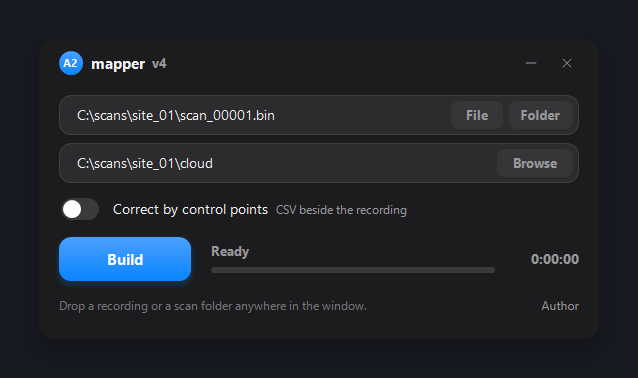
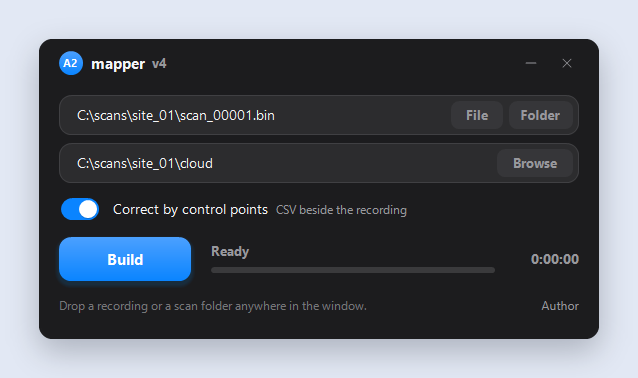
README: same-size screenshots, no vendor comparison, colour for S20 up front
Both window screenshots now share one background and size and the same switch
state. The comparison table is removed. The top row keeps only the downloads;
Telegram/YouTube stay in the Links section. Colour output for SHARE S20 scan
folders is listed under Features.

diff --git a/README.md b/README.md
@@ -5,26 +5,24 @@
 <h1 align="center">A2 mapper</h1>
 
 <p align="center">
-  <b>Point clouds from SLAM scanner recordings. Fast, accurate, free.</b><br>
-  Windows · Android
+  Point clouds from SLAM scanner recordings.<br>
+  Windows · Android · free
 </p>
 
 <p align="center">
-  <a href="v4/A2-mapper-v4.exe"><b>⬇ Windows (.exe)</b></a> ·
-  <a href="v4/A2-mapper-v4.apk"><b>⬇ Android (.apk)</b></a> ·
-  <a href="https://t.me/a2blog">Telegram</a> ·
-  <a href="https://www.youtube.com/@a2-lab">YouTube</a>
+  <a href="v4/A2-mapper-v4.exe"><b>⬇ Download for Windows (.exe)</b></a> &nbsp;·&nbsp;
+  <a href="v4/A2-mapper-v4.apk"><b>⬇ Download for Android (.apk)</b></a>
 </p>
 
 <p align="center">
-  <img src="docs/window-light.png" width="46%" alt="A2 mapper, light theme">
-  <img src="docs/window-dark.png" width="46%" alt="A2 mapper, dark theme">
+  <img src="docs/window-light.png" width="48%" alt="A2 mapper, light theme">
+  <img src="docs/window-dark.png" width="48%" alt="A2 mapper, dark theme">
 </p>
 
 ## What it is
 
-A2 mapper builds a dense, clean **point cloud (`.las`) and a trajectory
-(`.txt`)** from raw SLAM scanner recordings:
+A2 mapper builds a dense **point cloud (`.las`) and a trajectory (`.txt`)** from
+raw SLAM scanner recordings. It reads:
 
 - **ROS1 bag files** (`.bag`, uncompressed) with the topics `/livox/lidar`
   (`livox_ros_driver2/CustomMsg`) and `/livox/imu` (`sensor_msgs/Imu`) —
@@ -32,32 +30,40 @@ A2 mapper builds a dense, clean **point cloud (`.las`) and a trajectory
 - **`.bin` recordings** of **A2 scanners** — see the
   [OpenSLAM](https://github.com/Werdna0107/OpenSLAM) project.
 
-The odometry algorithm was designed and written by the author independently.
-It is not derived from, and does not reuse code of, well-known open-source SLAM
-implementations.
+### Features
 
-Everything runs on your own device. No account, no network, no cloud: your
-recordings never leave your computer or phone.
+- **Colour for SHARE S20 scans.** Choose the whole scan folder (the one with the
+  `all_*.bag` and the `info` folder) and the point cloud comes out **coloured**
+  from the scanner's cameras. Choose a single file and you get a grey cloud.
+- **Control points (RTK).** The trajectory can be corrected by your control
+  points, and the cloud comes out in their coordinates — see
+  [below](#control-points-rtk--trajectory-correction).
+- **Closed loop.** Start and finish are tied together when the recording is made
+  as described [below](#getting-the-best-quality-record-a-closed-loop).
+- **Private.** Everything runs on your own device. No account, no network, no
+  cloud: your recordings never leave your computer or phone.
+
+The odometry algorithm was designed and written by the author independently. It
+is not derived from, and does not reuse code of, well-known open-source SLAM
+implementations.
 
 ## Download
 
 | Platform | File | Notes |
 |---|---|---|
 | Windows 10 / 11, x64 | [`v4/A2-mapper-v4.exe`](v4/A2-mapper-v4.exe) | one file, 1.6 MB, nothing to install |
-| Android 8.0+, arm64 | [`v4/A2-mapper-v4.apk`](v4/A2-mapper-v4.apk) | runs the same engine on the phone (no control points) |
+| Android 8.0+, arm64 | [`v4/A2-mapper-v4.apk`](v4/A2-mapper-v4.apk) | the same engine on the phone (no control points) |
 
 SHA-256 checksums: [`v4/SHA256SUMS.txt`](v4/SHA256SUMS.txt). The program is not
 code-signed, so Windows SmartScreen may warn you on first start: choose
-*More info → Run anyway*. On Android allow installation from this source.
+*More info → Run anyway*. On Android, allow installation from this source.
 
 ## How to use (Windows)
 
 1. Start **A2-mapper-v4.exe**.
 2. Choose the recording:
    - **File** — a `.bag` or `.bin` recording → grey point cloud;
-   - **Folder** — a whole **SHARE S20 scan folder** (the one with the `all_*.bag`
-     and the `info` folder) → the cloud is also **coloured** from the scanner's
-     cameras. For colour you must pick the folder, not the file.
+   - **Folder** — a whole **SHARE S20 scan folder** → **coloured** point cloud;
    - or just drop a file or a folder into the window.
 3. The output folder is suggested automatically. Press **Build**.
 4. You get two files in the output folder: **`cloud.las`** and
@@ -121,27 +127,11 @@ Used columns: `board_real_ns`, `lat_deg`, `lon_deg`, `h_ellps_m` (optionally
 `hacc_m`, `vacc_m`, `carr_soln`). Only RTK-fixed points (`carr_soln = 2`) are
 used; the result is in local east-north-up metres around the first point.
 
-## Accuracy and speed
-
-Pure SLAM (no RTK used in the processing), measured against RTK on three real
-scans. Deviation from the reference, RMS in cm, plan / height:
-
-| Scan | Reference | SHARE PCS | A2 mapper |
-|---|---|---|---|
-| Street loop, 282 m (SHARE S20) | RTK along the whole route | 3.2 / 2.8 | **2.4 / 2.6** |
-| Courtyard, 192 m (SHARE S20) | 5 control points | 6.9 / 3.6 | 7.1 / **1.8** |
-| Street block, 777 m (A2) | 7 control points | 25.9 / 29.7 | **18.4** / 29.8 |
-
-Time to the point cloud (no colour), same computer: **6 / 3.7 / 7 min** with A2
-mapper against 11 / 7.3 / 55 min.
-
-Your results will depend on the scanner, the route and the surroundings.
-
 ## Not affiliated
 
-A2 mapper is an independent project. SHARE, SHARE Studio, SHARE PCS and Livox
-are trademarks of their owners; they are named here only to say which recordings
-the program reads.
+A2 mapper is an independent project. SHARE, SHARE Studio and Livox are
+trademarks of their owners; they are named here only to say which recordings the
+program reads.
 
 ## License
 
